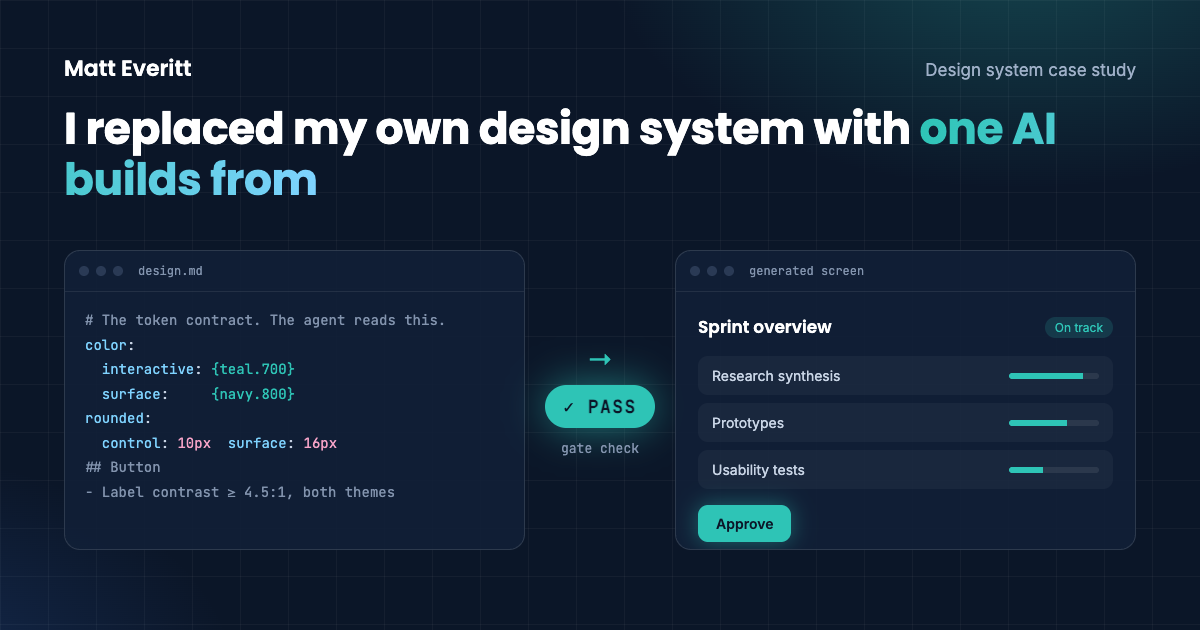
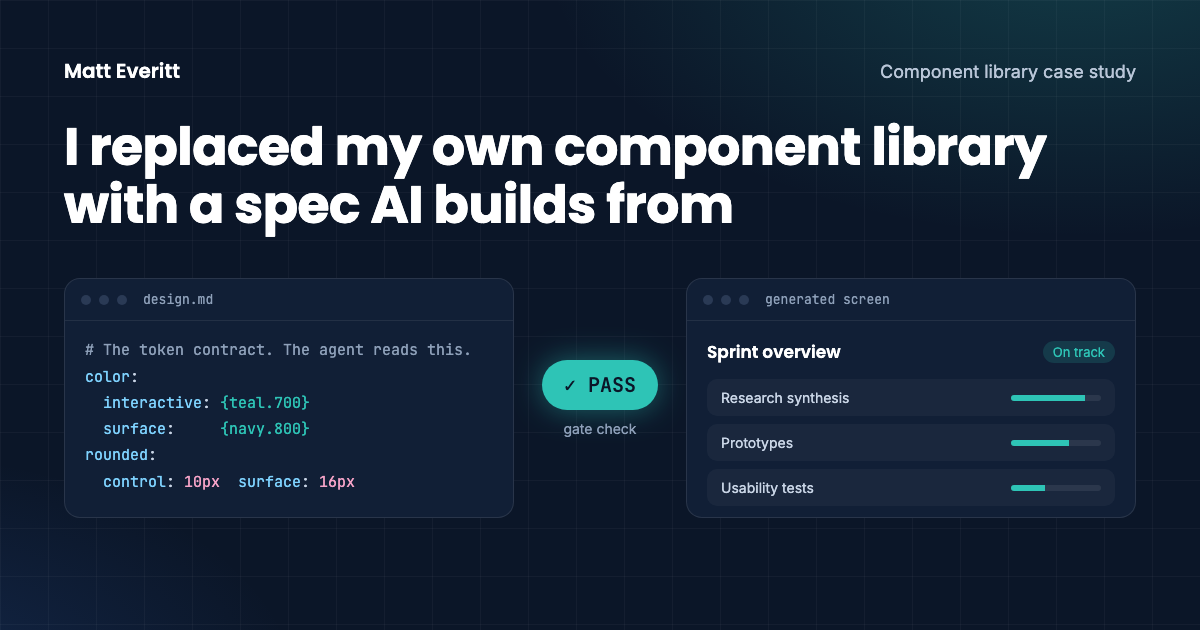
portfolio: apply Matt's answers to the evidence TODOs

diff --git a/index.html b/index.html
@@ -8,7 +8,6 @@
 <meta property="og:title" content="I replaced my own component library with a spec AI builds from">
 <meta property="og:description" content="Matt Everitt replaced his own component library with a specification that AI coding agents build from. He runs it as a product, measures it like one and says plainly what is still unproven.">
 <meta property="og:type" content="article">
-<!-- TODO(matt): og-image.png still shows the old headline, "I replaced my own design system with one AI builds from", with its gradient phrase. Regenerate it with the new headline? -->
 <meta property="og:image" content="https://matteveritt.co.uk/og-image.png">
 <meta property="og:image:width" content="1200">
 <meta property="og:image:height" content="630">
@@ -698,7 +697,7 @@ footer .wrap{display:flex;justify-content:space-between;gap:var(--space-6);flex-
         <h1>I replaced my own component library with a spec AI builds from</h1>
       </div>
       <div class="hero-copy">
-        <p class="lede">I built the component library behind <span data-fact="F01">60+</span> products. The evidence said it couldn't keep up, so I replaced it with a versioned specification that teams' AI coding agents build from, and a gate that checks the result. I run it as a product, and strategy, roadmap, releases and adoption are mine.</p>
+        <p class="lede">I built the component library for a portfolio of <span data-fact="F01">60+</span> products. The evidence said it couldn't keep up, so I replaced it with a versioned specification that teams' AI coding agents build from, and a gate that checks the result. I run it as a product, and strategy, roadmap, releases and adoption are mine.</p>
         <a class="teaser" href="#options"><b>Highlight</b>How I decided to retire my own library</a>
       </div>
       <dl class="meta">
@@ -773,9 +772,7 @@ footer .wrap{display:flex;justify-content:space-between;gap:var(--space-6);flex-
     <p class="lede">My customers are the product teams behind those products. Each has its own roadmap, and none is waiting for a design system.</p>
     <div class="glance reveal">
       <div><small>v1, the library I built</small><p><span data-fact="F04">45</span> components, with <span data-fact="F05">React, Vue and Angular built simultaneously</span>. I delivered it in <span data-fact="F06">four stages</span> against a roadmap I presented at CTO level.</p></div>
-      <!-- TODO(matt): Did the role merge behind the £94k remove headcount or redeploy it? -->
-      <div><small>Track record</small><p>Earlier operational changes I led saved <span data-fact="F07">£94k a year</span>, mostly by merging a separate component build function into one design operations role.</p></div>
-      <!-- TODO(matt): For manager readers, what evidence is there of hiring, coaching or leading people? -->
+      <div><small>Track record</small><p>Earlier operational changes I led saved <span data-fact="F07">£94k a year</span>, mostly by merging a separate component build function into one design operations role, which removed headcount.</p></div>
       <div><small>Tenure</small><p><span data-fact="F03">About 6 years</span>, from junior UI designer to design system manager.</p></div>
     </div>
   </div>
@@ -785,8 +782,7 @@ footer .wrap{display:flex;justify-content:space-between;gap:var(--space-6);flex-
   <div class="wrap">
     <p class="eyebrow">The problem</p>
     <h2>The evidence against my own library</h2>
-    <!-- TODO(matt): The Problem section has no v1 adoption baseline. How many products adopted v1? -->
-    <p class="lede">Running the static gate against existing products found a median of <span data-fact="P01">412</span> violations per product. Each v1 component cost <span data-fact="P09">about 3.5 weeks</span> across three framework builds, roughly <span data-fact="P09">two</span> of them on the second and third builds. And nothing told an AI coding agent what on-brand or accessible meant.</p>
+    <p class="lede">Running the static gate against existing products found a median of <span data-fact="P01">412</span> violations per product. Only <span data-fact="P28">6</span> products adopted v1, to varying degrees, across three frameworks. Each v1 component cost <span data-fact="P09">about 3.5 weeks</span> across three framework builds, roughly <span data-fact="P09">two</span> of them on the second and third builds. And nothing told an AI coding agent what on-brand or accessible meant.</p>
     <div class="compare reveal">
       <div class="lane">
         <h3>Before</h3>
@@ -988,7 +984,7 @@ footer .wrap{display:flex;justify-content:space-between;gap:var(--space-6);flex-
     </details>
     <h3 class="mt-12">Continuity</h3>
     <div class="layers">
-      <!-- TODO(matt): The seven-month leave plan conflicts with spec work from July to October, 90 releases and "I built the first three implementations myself". What ran during the leave, and who did it? -->
+      <!-- TODO(matt): The plan says seven months of leave, but the leave ran April to July, about four. Which is right? -->
       <div class="layer reveal"><span class="tag">Plan</span><p>I designed a plan covering <span data-fact="F17">seven months</span> of extended leave, so the system ran without me.</p></div>
       <div class="layer reveal"><span class="tag">Log</span><p>The dated decision log holds <span data-fact="F12">150+</span> entries. A mistake gets corrected in a new entry, never erased.</p></div>
     </div>
@@ -1014,6 +1010,7 @@ footer .wrap{display:flex;justify-content:space-between;gap:var(--space-6);flex-
       </div>
       <div class="bcol out reveal"><small>The outcome</small><blockquote>"We love it, but we can't do it right now."</blockquote><p>Rollout follows each team's roadmap. A funded reskin was the forcing function, and mandates and demos converted nobody.</p></div>
     </div>
+    <!-- TODO(matt): You said no product has gone live, but the page claims 3 in production on a pinned release (here, the At a glance north star and Metrics). Does "in production" mean shipped to end users? -->
     <ol class="funnel reveal" aria-label="Adoption funnel">
       <li><b><span data-fact="P04">9</span></b> piloted</li>
       <li><b><span data-fact="P04">6</span></b> committed with a date</li>
@@ -1045,17 +1042,10 @@ footer .wrap{display:flex;justify-content:space-between;gap:var(--space-6);flex-
         <li>Drift per product: <span data-fact="P25">260</span>, down from the baseline in The problem, and zero on governed files<small class="note">Median across whole codebases, n = <span data-fact="P01">12</span> products</small></li>
       </ul></div>
       <div class="sbox next reveal"><span class="pill">Guardrails</span><ul>
-        <!-- TODO(matt): Gate history. "Blocked 340 AA failures before merge in nine months", but spec work started in July 2026. When did the gate start? Correct the period or state the start date. -->
-        <!-- TODO(matt): Defect comparison. "14 before, 3 after" uses comparable two-quarter periods, but these products reached production in or after July. Correct the period or remove the claim. -->
-        <li>Accessibility defects after release: <span data-fact="P03">14</span> before, <span data-fact="P03">3</span> after<small class="note">The three production products, comparable two-quarter periods. The gate also blocked <span data-fact="P03">340</span> AA failures before merge in nine months.</small></li>
+        <li>AA failures blocked before merge: <span data-fact="P29">117</span> since July 2026</li>
         <li>Time for a critical fix to reach every adopter: <span data-fact="P11">under 1</span> working day to tag, <span data-fact="P11">6</span> to all three products<small class="note">Release and pin records</small></li>
       </ul></div>
     </div>
-    <!-- TODO(matt): Confirm this applies to all three production products. -->
-    <p class="note mt-5">These products were also mid-reskin, which reduces defects independently.</p>
-    <!-- TODO(matt): Engineering cost avoided. What loaded day rate should the calculation use? -->
-    <!-- Calculation once the rate is known: (3.5 weeks × components delivered) and ((5 − 1.5) days × screens built), each times the loaded day rate. -->
-    <!-- TODO(matt): For product manager readers, is there an end-user or commercial outcome to report? -->
   </div>
 </section>
 
@@ -1067,8 +1057,7 @@ footer .wrap{display:flex;justify-content:space-between;gap:var(--space-6);flex-
     <div class="trades">
       <div class="trade reveal">
         <div class="cost"><small>Cost</small><h3>AI output varies from run to run</h3><p>Three runs from one brief used the same tokens and values but structured the code differently, from <span data-fact="F16">407 to 930 lines</span>.</p></div>
-        <!-- TODO(matt): What does it cost for every team to own its own generated code? -->
-        <div class="fix"><small>How I contained it</small><h3>Govern the contract, not the code</h3><p>The gate checks tokens, contrast and behaviour, which held steady. Product teams own generated code through their own reviews and tests. I own the spec and the gate.</p></div>
+        <div class="fix"><small>How I contained it</small><h3>Govern the contract, not the code</h3><p>The gate checks tokens, contrast and behaviour, which held steady. Product teams own generated code through their own reviews and tests, which costs them little and gives them more freedom to customise. I own the spec and the gate.</p></div>
       </div>
       <div class="trade reveal">
         <div class="cost"><small>Cost</small><h3>Existing products weren't built for this</h3><p>Most early adopters have a shipping product, its own CSS and a designer with expectations.</p></div>
